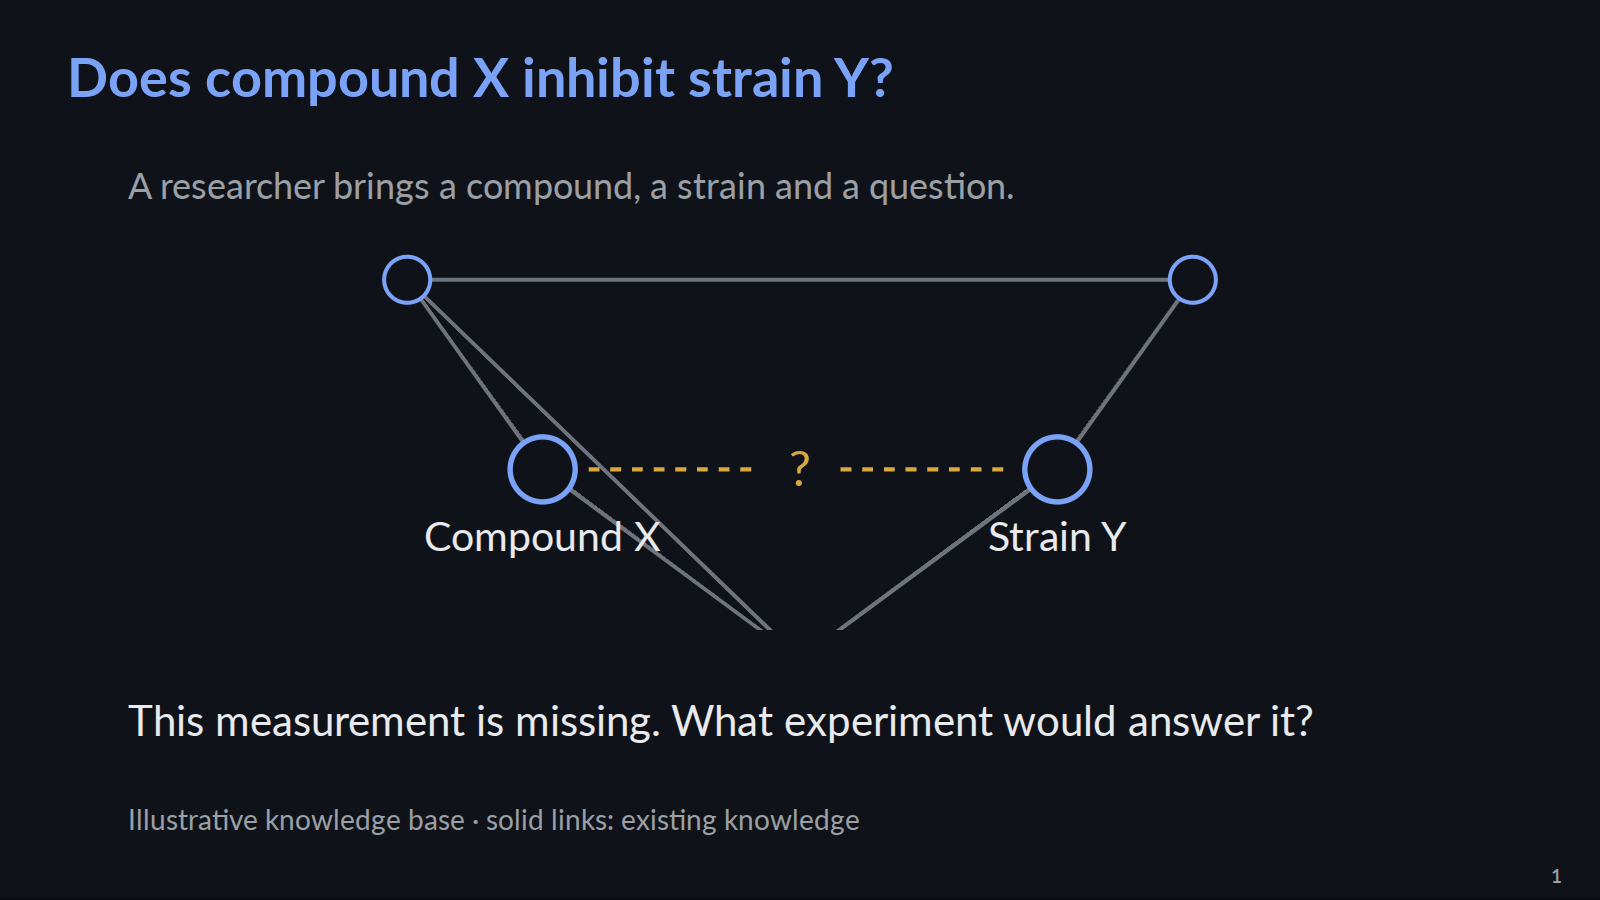
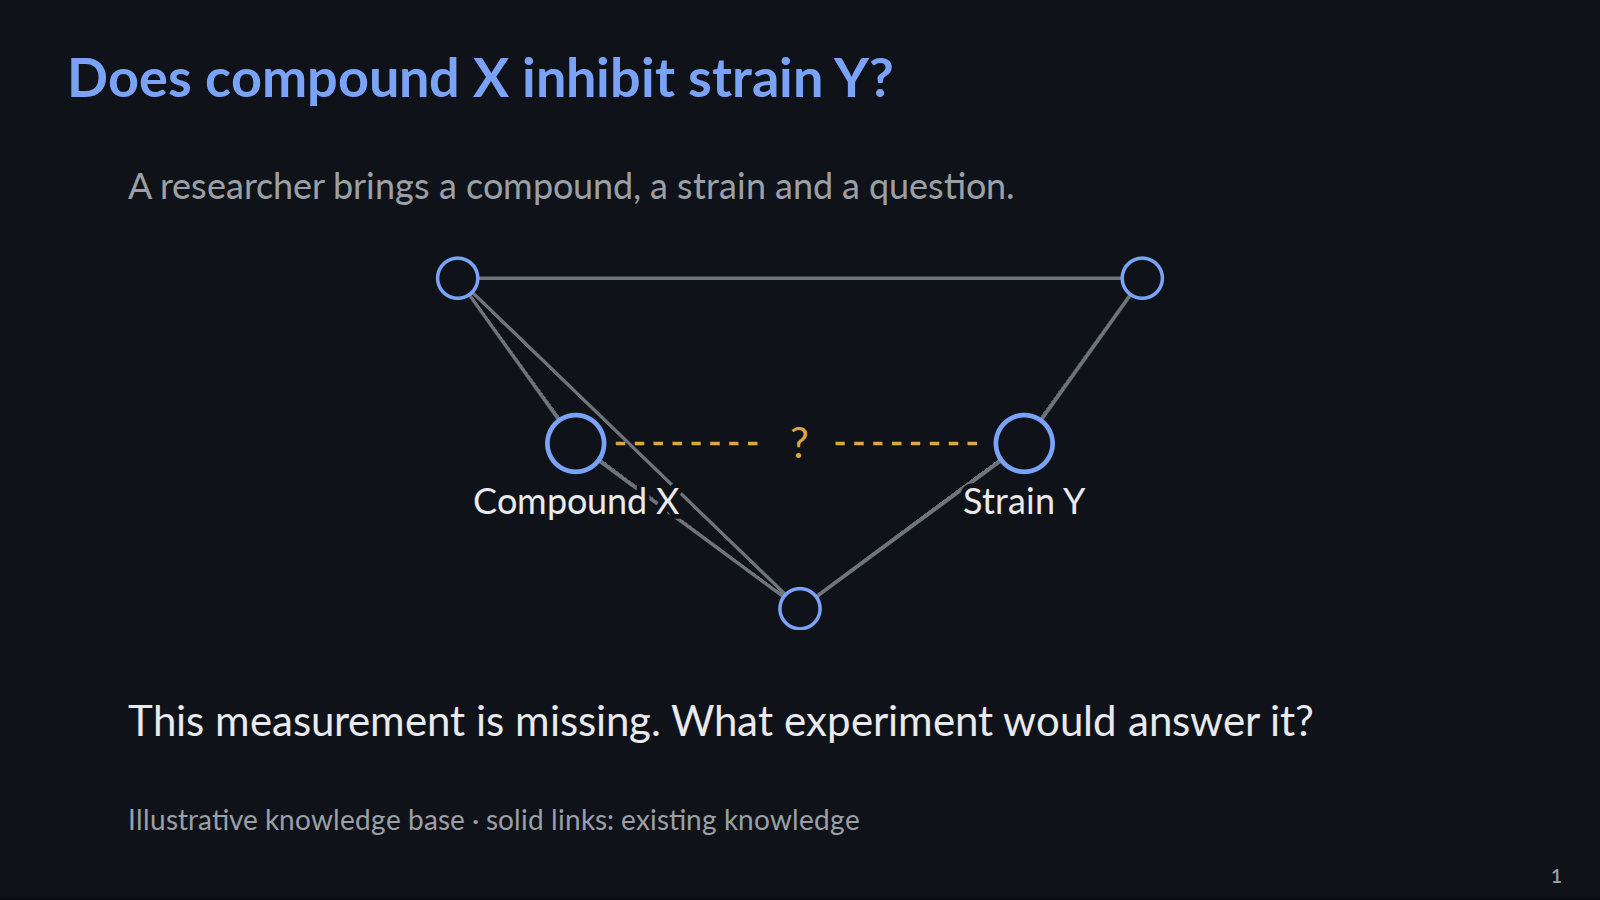
Keep context nodes visible during the prototype zoom

diff --git a/slides/talks/question-prototype/story.js b/slides/talks/question-prototype/story.js
@@ -2,7 +2,7 @@
 // TODO(final): conceptual illustration, not an actual graph export or recorded query.
 {
 Deck.slide('missing-link',{steps:3,notes:'Abstract five-node KB. Other links connect the graph, while the queried compound–strain relation is absent. Click 2 zooms toward that pair; click 3 highlights the unanswered measurement. Solid links represent unspecified existing knowledge, not a claimed biochemical relation. The researcher supplied both entities. The demo assumes the KB is up to date.',mount(frame,{css}){
-css(`.ml-question{position:absolute;left:8%;top:18%;font-size:var(--t-body);color:var(--muted)}.ml-view{position:absolute;left:10%;top:27%;width:80%;height:43%;overflow:hidden}.ml-view svg{width:100%;height:100%}.ml-world{transform-origin:500px 200px;transition:transform .8s ease-in-out}.ml-zoom .ml-world{transform:translateY(20px) scale(1.4)}.ml-edge{stroke:var(--detail);stroke-width:3;fill:none}.ml-dot{fill:var(--bg);stroke:var(--accent);stroke-width:3}.ml-focus{stroke-width:4}.ml-label{fill:var(--fg);font-size:var(--t-small);font-family:Lato,sans-serif;text-anchor:middle}.ml-gap{stroke:var(--plot-2);stroke-width:3;stroke-dasharray:8 8;fill:none}.ml-missing{opacity:0;transition:opacity .5s}.ml-reveal .ml-missing{opacity:1}.ml-mark{fill:var(--plot-2);font-size:var(--t-body);font-family:Lato,sans-serif;text-anchor:middle}.ml-answer{position:absolute;left:8%;top:77%;font-size:var(--t-lead);opacity:0;transition:opacity .5s}.ml-reveal .ml-answer{opacity:1}.ml-key{position:absolute;left:8%;top:89%;font-size:var(--t-caption);color:var(--muted)}.ml-jump .ml-world,.ml-jump .ml-missing,.ml-jump .ml-answer{transition:none}`);
+css(`.ml-question{position:absolute;left:8%;top:18%;font-size:var(--t-body);color:var(--muted)}.ml-view{position:absolute;left:10%;top:27%;width:80%;height:43%;overflow:hidden}.ml-view svg{width:100%;height:100%}.ml-world{transform-origin:500px 200px;transition:transform .8s ease-in-out}.ml-zoom .ml-world{transform:translateY(-5px) scale(1.22)}.ml-edge{stroke:var(--detail);stroke-width:3;fill:none}.ml-dot{fill:var(--bg);stroke:var(--accent);stroke-width:3}.ml-focus{stroke-width:4}.ml-label{fill:var(--fg);font-size:var(--t-small);font-family:Lato,sans-serif;text-anchor:middle;paint-order:stroke;stroke:var(--bg);stroke-width:8px;stroke-linejoin:round}.ml-gap{stroke:var(--plot-2);stroke-width:3;stroke-dasharray:8 8;fill:none}.ml-missing{opacity:0;transition:opacity .5s}.ml-reveal .ml-missing{opacity:1}.ml-mark{fill:var(--plot-2);font-size:var(--t-body);font-family:Lato,sans-serif;text-anchor:middle}.ml-answer{position:absolute;left:8%;top:77%;font-size:var(--t-lead);opacity:0;transition:opacity .5s}.ml-reveal .ml-answer{opacity:1}.ml-key{position:absolute;left:8%;top:89%;font-size:var(--t-caption);color:var(--muted)}.ml-jump .ml-world,.ml-jump .ml-missing,.ml-jump .ml-answer{transition:none}`);
 frame.innerHTML=`<h2 class="deck-heading">Does compound X inhibit strain Y?</h2><div class="ml-question">A researcher brings a compound, a strain and a question.</div><div class="ml-view"><svg viewBox="0 0 1000 400" preserveAspectRatio="xMidYMid meet" aria-label="Five circular nodes form one connected graph. The queried compound–strain link is missing."><g class="ml-world"><path class="ml-edge" d="M310 210 L210 70 L790 70 L690 210 M310 210 L500 350 L690 210 M210 70 L500 350"/><g class="ml-dot"><circle cx="210" cy="70" r="17"/><circle cx="790" cy="70" r="17"/><circle cx="500" cy="350" r="17"/><circle class="ml-focus" cx="310" cy="210" r="24"/><circle class="ml-focus" cx="690" cy="210" r="24"/></g><text class="ml-label" x="310" y="270">Compound X</text><text class="ml-label" x="690" y="270">Strain Y</text><g class="ml-missing"><path class="ml-gap" d="M344 210 L470 210 M530 210 L656 210"/><text class="ml-mark" x="500" y="222">?</text></g></g></svg></div><div class="ml-answer">This measurement is missing. What experiment would answer it?</div><div class="ml-key">Illustrative knowledge base · solid links: existing knowledge</div>`;
 return{enter:(s,a)=>{frame.classList.toggle('ml-jump',!a);frame.classList.toggle('ml-zoom',s>=2);frame.classList.toggle('ml-reveal',s>=3);}};
 }});
